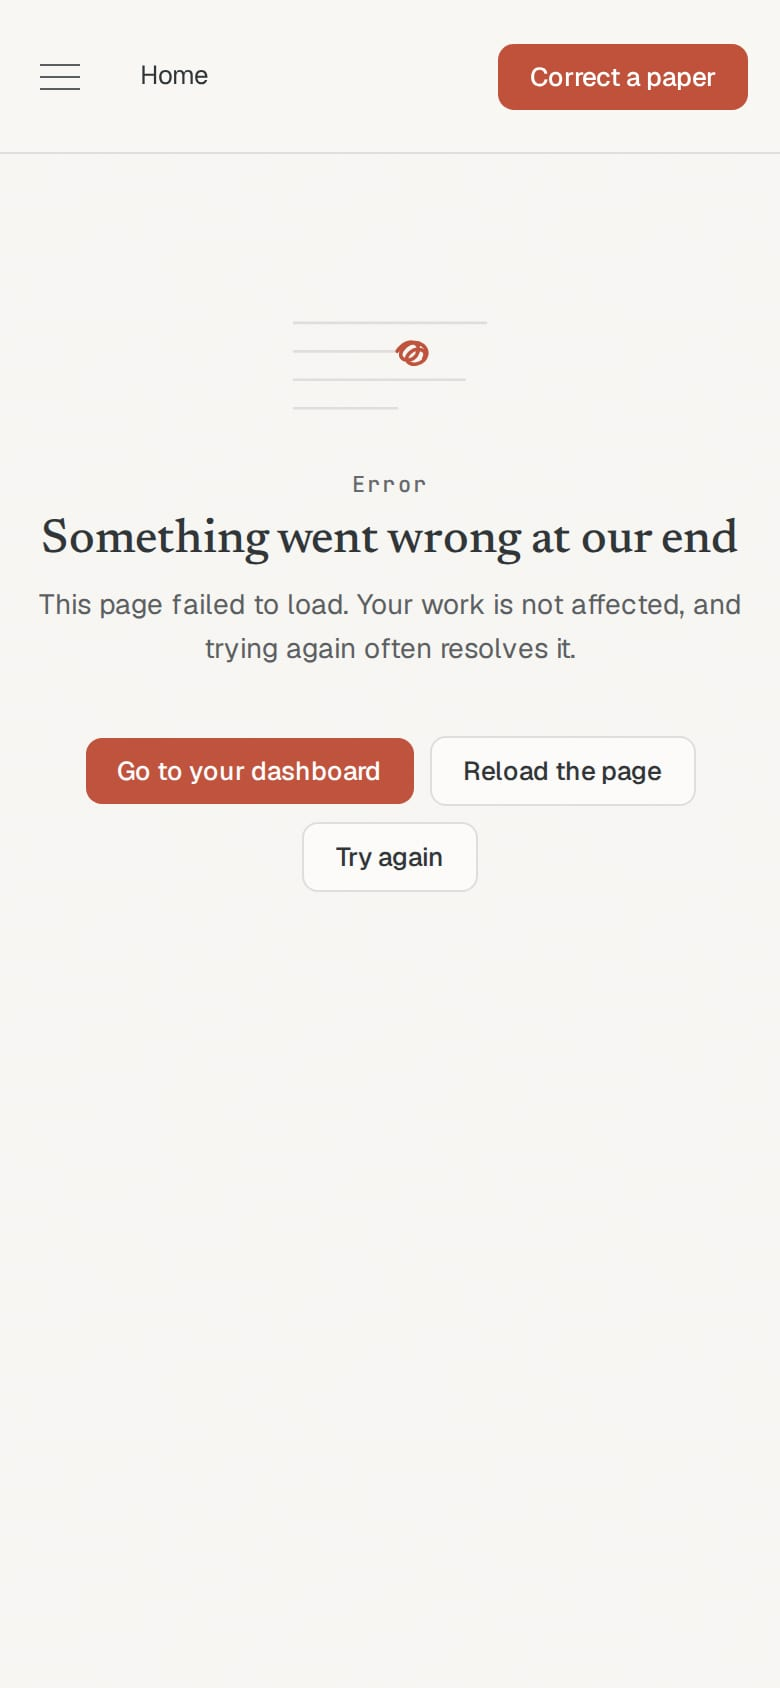
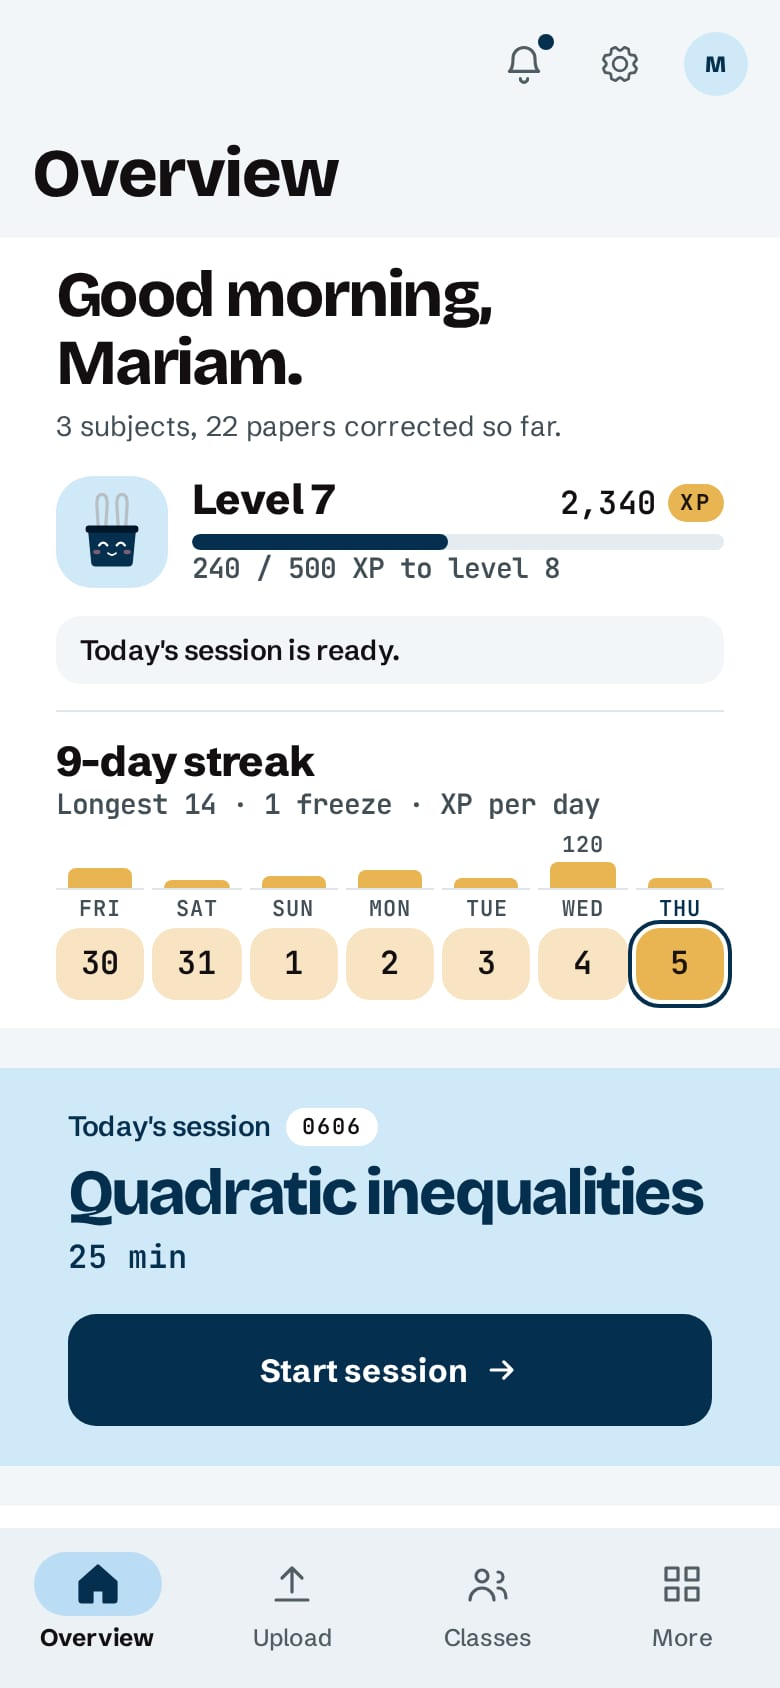
fix(pwa): manifest install screenshots show the student home, not an error page
Both screenshots had captured the "Something went wrong" error boundary:
manifest_screenshots.mjs stubbed every /api/** call with {}, and Overview's
JoinClassPrompt reads classes.length from /api/student/classes. The script
now stubs that endpoint with one class.

The screenshots themselves are the populated student home (design variant A),
captured from the dev preview at 1440x900 and 390x844 at 2x, toolbar hidden.
Manifest labels describe the new content; sizes are unchanged.

diff --git a/web/vite/manifest.ts b/web/vite/manifest.ts
@@ -173,14 +173,14 @@ export function buildManifest(mode: string) {
         type: "image/jpeg",
         form_factor: "wide" as const,
         label:
-          "The student dashboard: subjects this session with predicted grades, a momentum chart, and weakest topics.",
+          "The student dashboard: level and streak, today's study session, and predicted grades per subject.",
       },
       {
         src: "screenshots/dashboard-narrow.jpg",
         sizes: "780x1688",
         type: "image/jpeg",
         form_factor: "narrow" as const,
-        label: "The student dashboard on a phone: subjects this session and predicted grades.",
+        label: "The student dashboard on a phone: level, streak and today's study session.",
       },
     ],
     widgets: [
